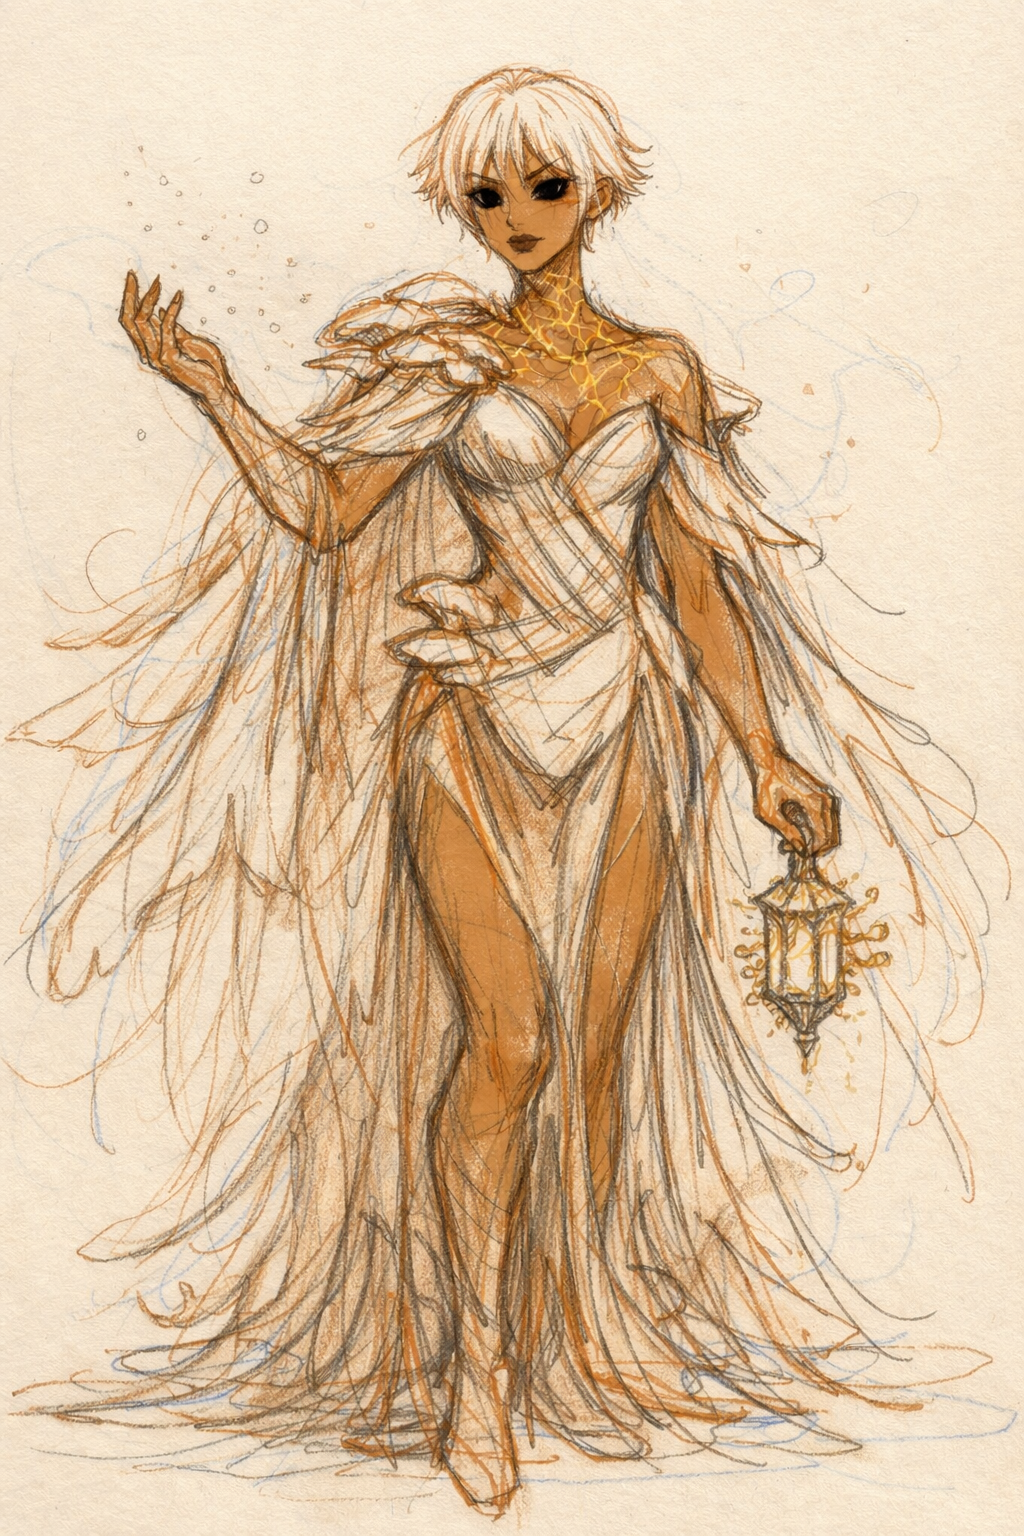
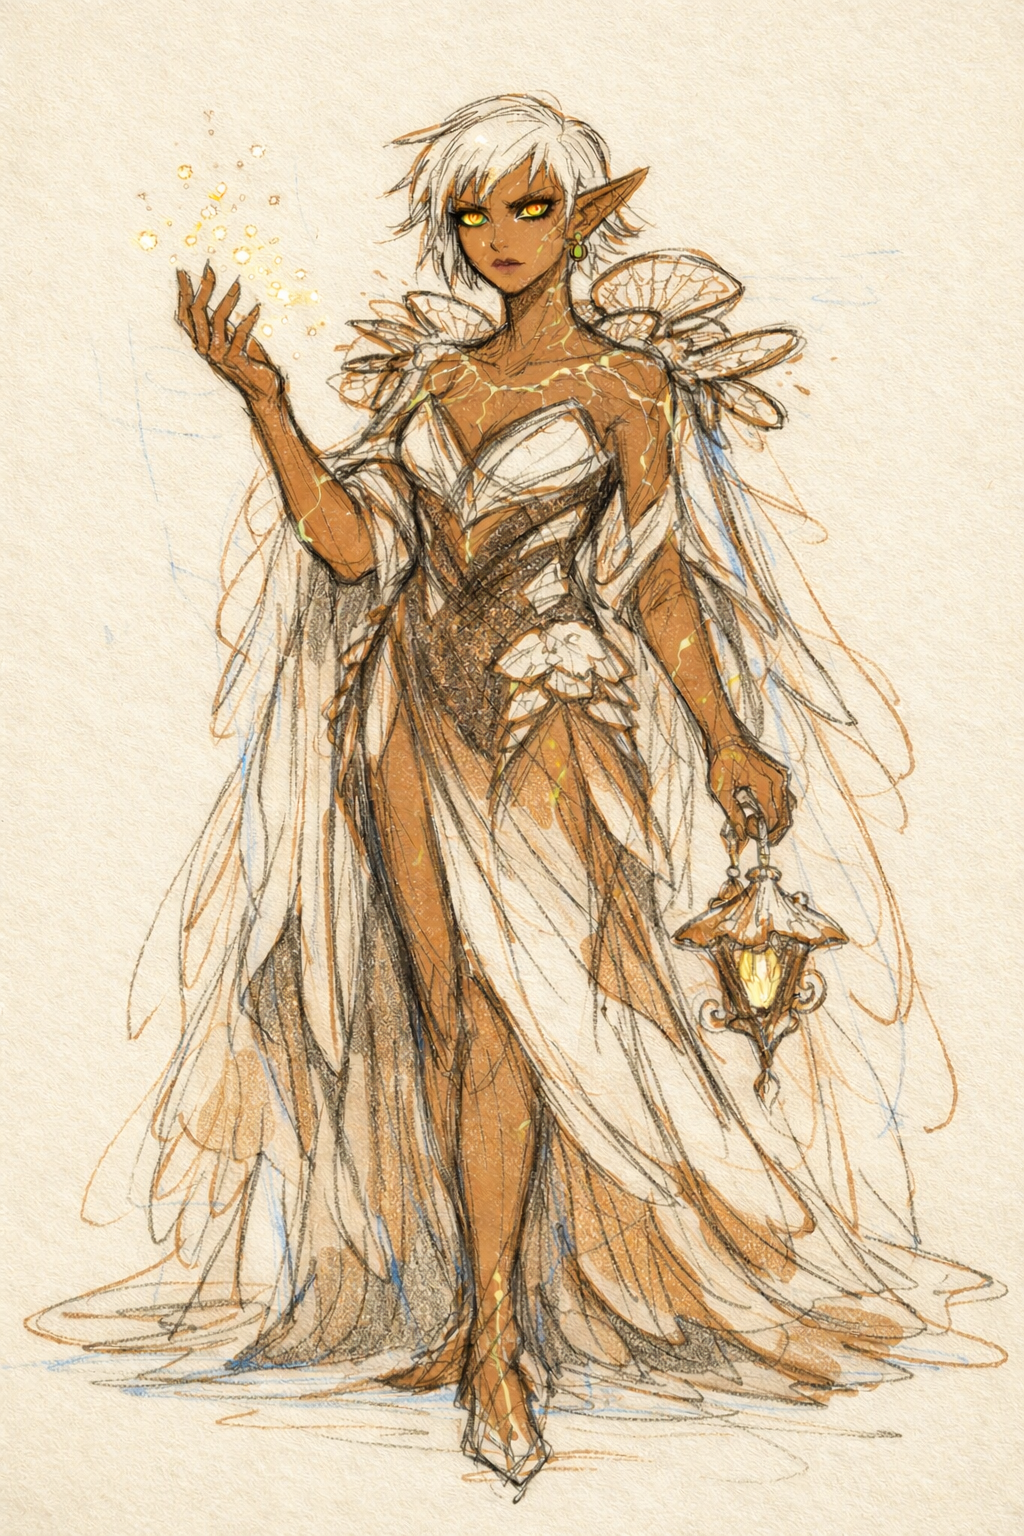
feat: add portrait variant 2 for axilin and dalamar; update thalla default

diff --git a/app/server/game-data.js b/app/server/game-data.js
@@ -614,8 +614,9 @@ export const PORTRAIT_VARIANTS = {
     { id: '2',       cost: 1500, path: '/portraits/lomie/2.jpg',       name: { ru: 'Вариант 2', en: 'Variant 2' } }
   ],
   axilin: [
-    { id: 'default', cost: 0,   path: '/portraits/axilin/default.png', name: { ru: 'Базовый',   en: 'Default'   } },
-    { id: '1',       cost: 500, path: '/portraits/axilin/1.jpg',       name: { ru: 'Вариант 1', en: 'Variant 1' } }
+    { id: 'default', cost: 0,    path: '/portraits/axilin/default.png', name: { ru: 'Базовый',   en: 'Default'   } },
+    { id: '1',       cost: 500,  path: '/portraits/axilin/1.jpg',       name: { ru: 'Вариант 1', en: 'Variant 1' } },
+    { id: '2',       cost: 1500, path: '/portraits/axilin/2.png',       name: { ru: 'Вариант 2', en: 'Variant 2' } }
   ],
   kirt: [
     { id: 'default', cost: 0,   path: '/portraits/kirt/default.png', name: { ru: 'Базовый',   en: 'Default'   } },
@@ -625,8 +626,9 @@ export const PORTRAIT_VARIANTS = {
     { id: 'default', cost: 0, path: '/portraits/morga/default.png', name: { ru: 'Базовый', en: 'Default' } }
   ],
   dalamar: [
-    { id: 'default', cost: 0,   path: '/portraits/dalamar/default.png', name: { ru: 'Базовый',   en: 'Default'   } },
-    { id: '1',       cost: 500, path: '/portraits/dalamar/1.jpg',       name: { ru: 'Вариант 1', en: 'Variant 1' } }
+    { id: 'default', cost: 0,    path: '/portraits/dalamar/default.png', name: { ru: 'Базовый',   en: 'Default'   } },
+    { id: '1',       cost: 500,  path: '/portraits/dalamar/1.jpg',       name: { ru: 'Вариант 1', en: 'Variant 1' } },
+    { id: '2',       cost: 1500, path: '/portraits/dalamar/2.png',       name: { ru: 'Вариант 2', en: 'Variant 2' } }
   ]
 };
 
